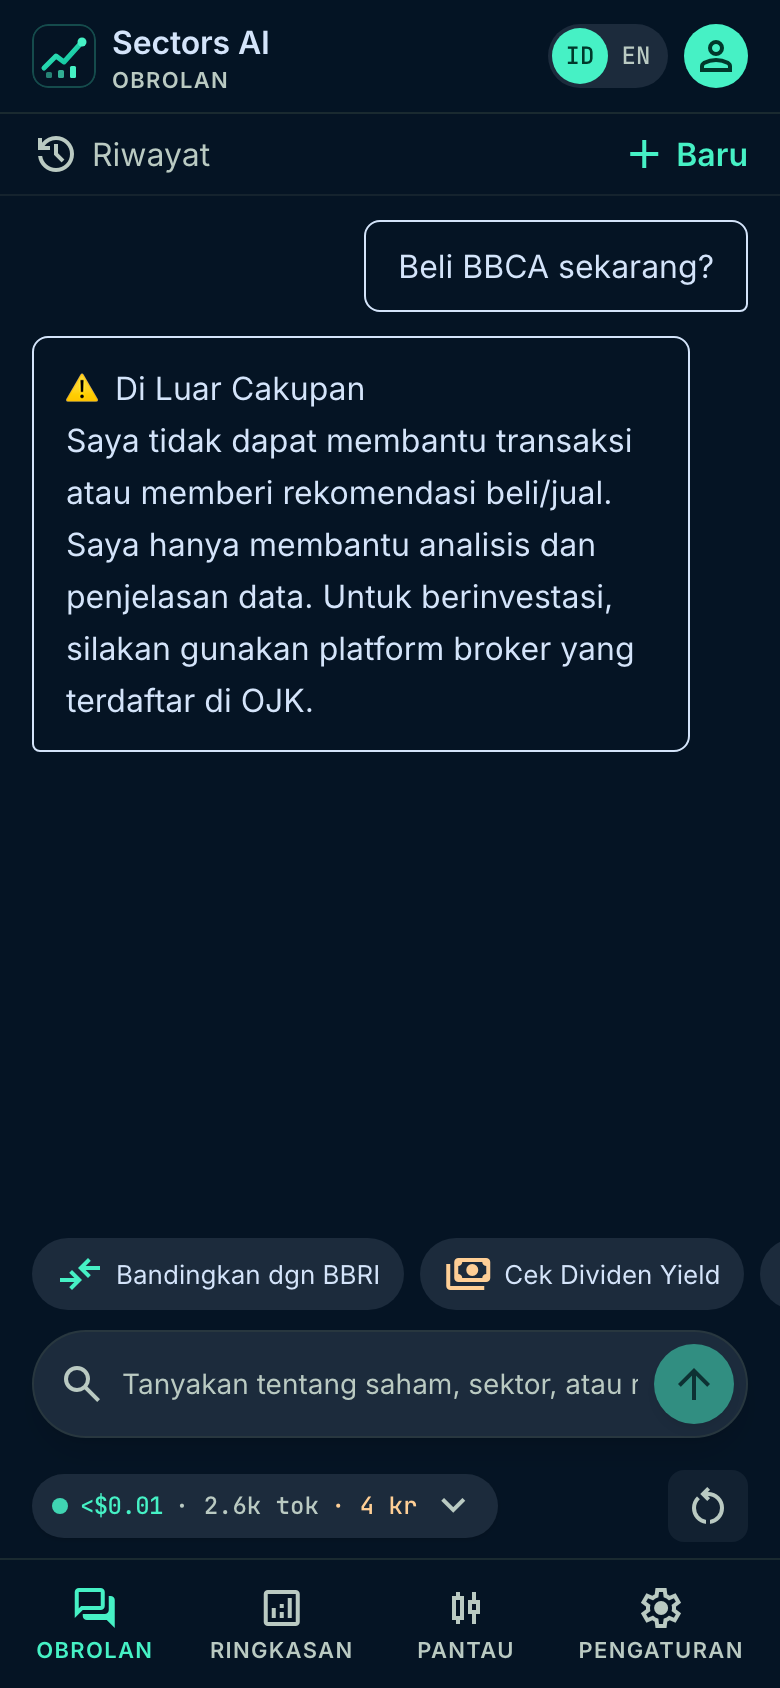
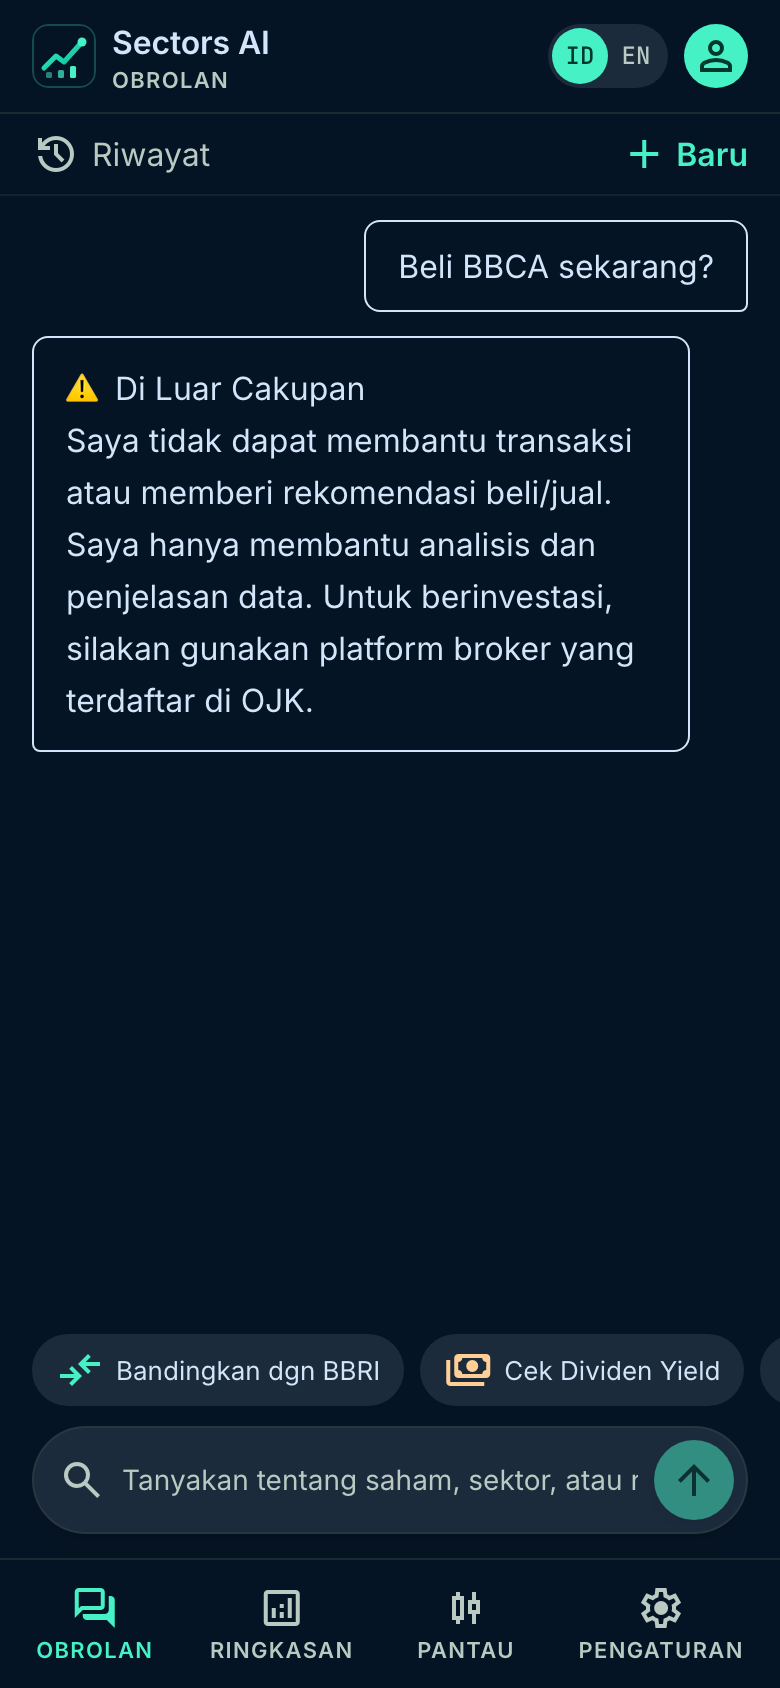
docs: QA report, QA screenshots

diff --git a/e2e/guardrails.spec.ts b/e2e/guardrails.spec.ts
@@ -69,7 +69,7 @@ test.describe("Guardrail Integration (no LLM call)", () => {
   test("no LLM API call is made for blocked trade keywords", async ({ page }) => {
     let llmCalls = 0;
     await page.route(
-      /api\.anthropic\.com|api\.openai\.com|api\.deepseek\.com|openrouter\.ai|api\.sectors\.app/,
+      /api\.anthropic\.com|api\.openai\.com|api\.deepseek\.com|openrouter\.ai|api\.sectors\.app|\/api\/sectors/,
       () => { llmCalls++; }
     );
 
@@ -84,7 +84,7 @@ test.describe("Guardrail Integration (no LLM call)", () => {
   test("no LLM API call is made for blocked prediction keywords", async ({ page }) => {
     let llmCalls = 0;
     await page.route(
-      /api\.anthropic\.com|api\.openai\.com|api\.deepseek\.com|openrouter\.ai|api\.sectors\.app/,
+      /api\.anthropic\.com|api\.openai\.com|api\.deepseek\.com|openrouter\.ai|api\.sectors\.app|\/api\/sectors/,
       () => { llmCalls++; }
     );
 
@@ -99,7 +99,7 @@ test.describe("Guardrail Integration (no LLM call)", () => {
   test("no LLM API call is made for blocked crypto keywords", async ({ page }) => {
     let llmCalls = 0;
     await page.route(
-      /api\.anthropic\.com|api\.openai\.com|api\.deepseek\.com|openrouter\.ai|api\.sectors\.app/,
+      /api\.anthropic\.com|api\.openai\.com|api\.deepseek\.com|openrouter\.ai|api\.sectors\.app|\/api\/sectors/,
       () => { llmCalls++; }
     );
 

diff --git a/docs/QA-REPORT.md b/docs/QA-REPORT.md
@@ -1,0 +1,33 @@
+# QA Report — Sectors AI Advisor
+
+Run: 8 Oct 2026, production build (`next build && next start`), Chromium 390×844 @2x, **live** Sectors API v2 + OpenRouter (`deepseek/deepseek-chat-v3-0324`).
+Driver: [`scripts/qa-live.mjs`](../scripts/qa-live.mjs). Screenshots: [`docs/screenshots/qa/`](screenshots/qa). Unit/e2e: `npx playwright test` (28 tests).
+
+| # | Flow | Result | Notes |
+|---|---|---|---|
+| 1 | Welcome screen: logo, 3 pills, 4 example questions | PASS | Logo loads (was a dead external URL). |
+| 2 | "Apa itu PBV dan ROE?" → separate user + assistant bubbles → tap term chip → glossary panel | PASS | No Sectors call for concept questions (was HTTP 400 `NON_TRANSLATABLE_QUERY`). 1 LLM call. |
+| 3 | "BBCA harganya udah mahal belum?" → view source | PASS | Source panel lists `/company/report/BBCA/`. |
+| 4 | "Bandingkan BBCA dan BBRI" | PASS | Two citations (BBCA + BBRI company reports). |
+| 5 | "Top gainers hari ini" | PASS | Real movers from `/companies/top-changes/` (FORU, VICI, BELI, …). |
+| 6 | "Beli BBCA sekarang?" | PASS | Guardrail block; **0 network calls** (no LLM, no Sectors). |
+| 7 | "Prediksi harga BBRI minggu depan" | PASS | "Di Luar Cakupan" block; 0 network calls. |
+| 8 | "Apa itu buyback?" / "Laporan keuangan BBCA bulan ini" | PASS | Neither is blocked; both answered. |
+| 9 | Daily Brief → Buat Ringkasan | PASS | Top gainers/losers, foreign flow, news + AI summary. |
+| 10 | Watchlist: add BBCA, duplicate BBCA, "BC", "ZZZZ" | PASS | Duplicate → "sudah ada"; BC → invalid format; ZZZZ → "tidak ditemukan". |
+
+LLM calls in the full run: 7 (each < US$0.01).
+
+## Bugs found and fixed during QA
+1. **Sectors client used non-existent endpoints** (`/company/{sym}/`, `/ranking/top-changes/`, `/broker/foreign-flow/`, `/stock/daily/`) → 404 = the "error connecting to Sectors API". Migrated to v2 paths (`/company/report/{sym}/`, `/companies/top-changes/`, `/foreign-flow/`, `/daily/{sym}/`) and fixed section names (`overview`, `valuation`, `financials`, `dividend`).
+2. **CORS**: `api.sectors.app` rejects browser calls from origins other than `localhost:3000`; any deployed build would have failed. All browser calls now go through the stateless `/api/sectors` proxy.
+3. **Concept questions hit the screener** → 400 `NON_TRANSLATABLE_QUERY` surfaced as a Next.js error overlay. Now skipped / treated as "no data".
+4. **Watchlist**: the "symbol not found" error was cleared immediately after being set, so invalid tickers looked silently ignored.
+5. **Citation toggle** state was keyed by array index and leaked across conversations; now keyed by message id.
+6. Layout: fixed TopBar/BottomNav overlapped content; broken logo URL; raw `**markdown**` shown in answers; no chat history. All fixed (history drawer with auto titles added).
+7. Outdated e2e selectors (`textarea`) updated; no-network guardrail tests now also cover the Sectors proxy.
+
+## Known limitations
+- Sectors v2 has no credit-balance endpoint; Settings now validates the key instead of showing credits.
+- Foreign-flow card aggregates the top 20 returned tickers (not the whole market).
+- LLM wording varies between runs; the verified signals are routing, citations and guardrails, not exact text.
